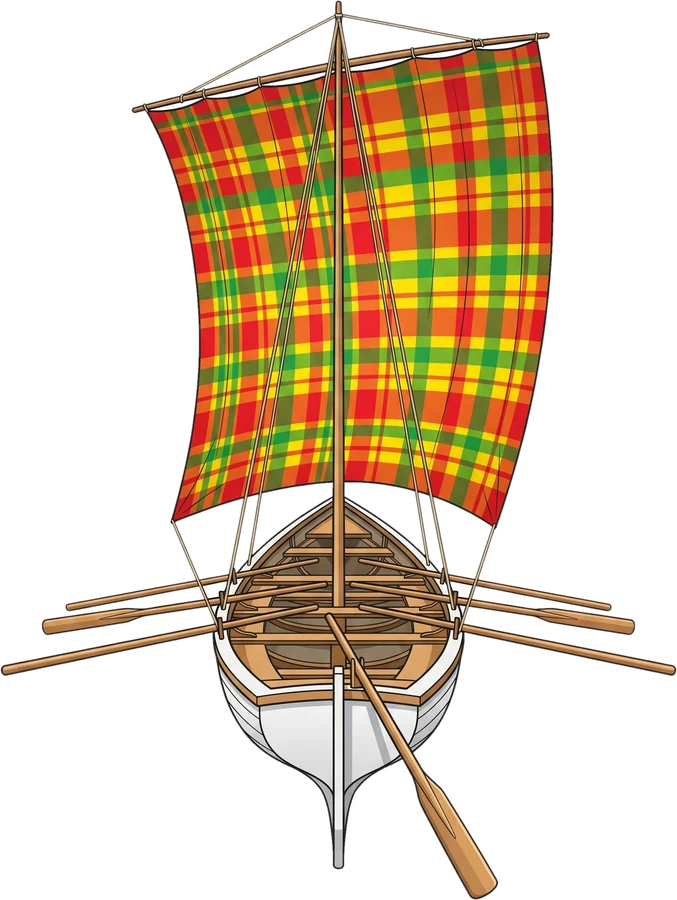
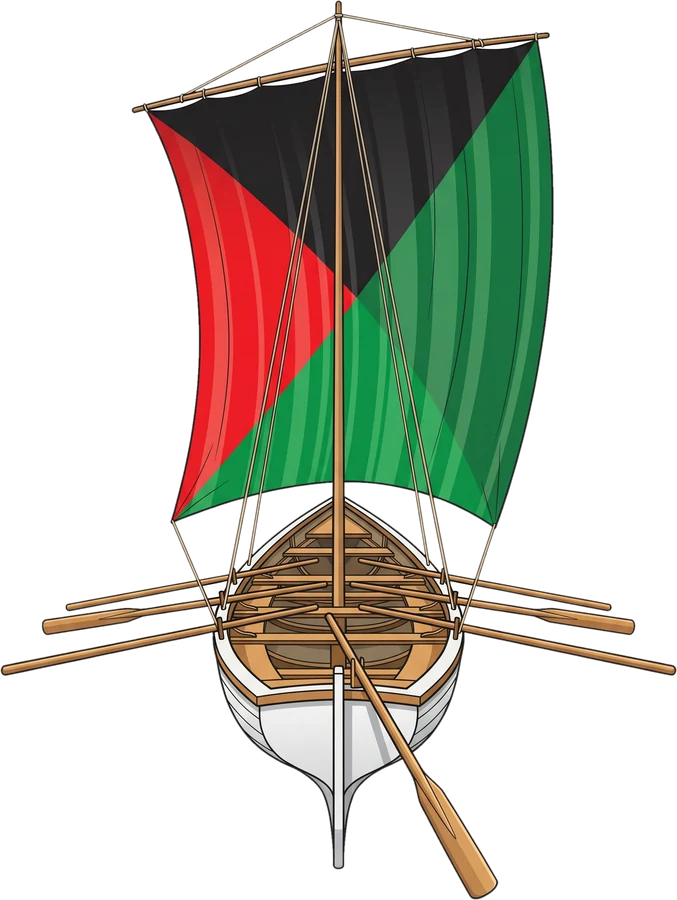
Woulé yol : nouvelle voile rouge-vert-noir, un seul modèle d'équipier
Claude-Session: https://claude.ai/code/session_01HzNim7Lxt79RwKQNqnQwJq

Changed region(s): [[0.2171, 0.0311, 0.8375, 0.5911], [0.6514, 0.6844, 0.6824, 0.7156], [0.3102, 0.6844, 0.3412, 0.7156]]

diff --git a/jeux/yol.js b/jeux/yol.js
@@ -5,7 +5,7 @@ const COURSE=1200,TACKS=[400,800],CAPSIZE=38;
 let cv,ctx,W=360,H=480,raf=0,last=0,run=false,daily=true;
 let st;
 const IMG={};
-function loadImages(){return Promise.all(['decor','yole','yole2','crew1','crew2','bouee'].map(k=>new Promise(ok=>{const im=new Image();im.onload=()=>{IMG[k]=im;ok();};im.onerror=()=>ok();im.src='/jeux/img/yol/'+k+'.webp';})));}
+function loadImages(){return Promise.all(['decor','yole','yole2','crew1','bouee'].map(k=>new Promise(ok=>{const im=new Image();im.onload=()=>{IMG[k]=im;ok();};im.onerror=()=>ok();im.src='/jeux/img/yol/'+k+'.webp';})));}
 function gusts(r){
   /* rafales : début (s), durée (s), force (0.5 à 1) */
   const g=[];let t=3;
@@ -68,7 +68,7 @@ function draw(){
   /* équipage sur les bois dressés */
   const cx=st.c*205;
   for(let i=0;i<4;i++){
-    const x=cx+(i-1.5)*46,foot=(632-PY)+Math.min(1,Math.abs(x)/338)*42,im=i%2?IMG.crew2:IMG.crew1;if(!im)continue;
+    const x=cx+(i-1.5)*46,foot=(632-PY)+Math.min(1,Math.abs(x)/338)*42,im=IMG.crew1;if(!im)continue;
     const ch=138,cw=ch*im.width/im.height;ctx.save();ctx.translate(x,foot);if(st.c<0)ctx.scale(-1,1);ctx.rotate(-st.c*.12);ctx.drawImage(im,-cw/2,-ch,cw,ch);ctx.restore();}
   ctx.restore();
   /* écume */

diff --git a/sw.js b/sw.js
@@ -1,5 +1,5 @@
 // Ti Bac Kréyol — service worker : ouverture rapide et jeu solo hors connexion
-const VERSION='tibac-v29';
+const VERSION='tibac-v30';
 const SHELL=[
  "./",
  "index.html",
